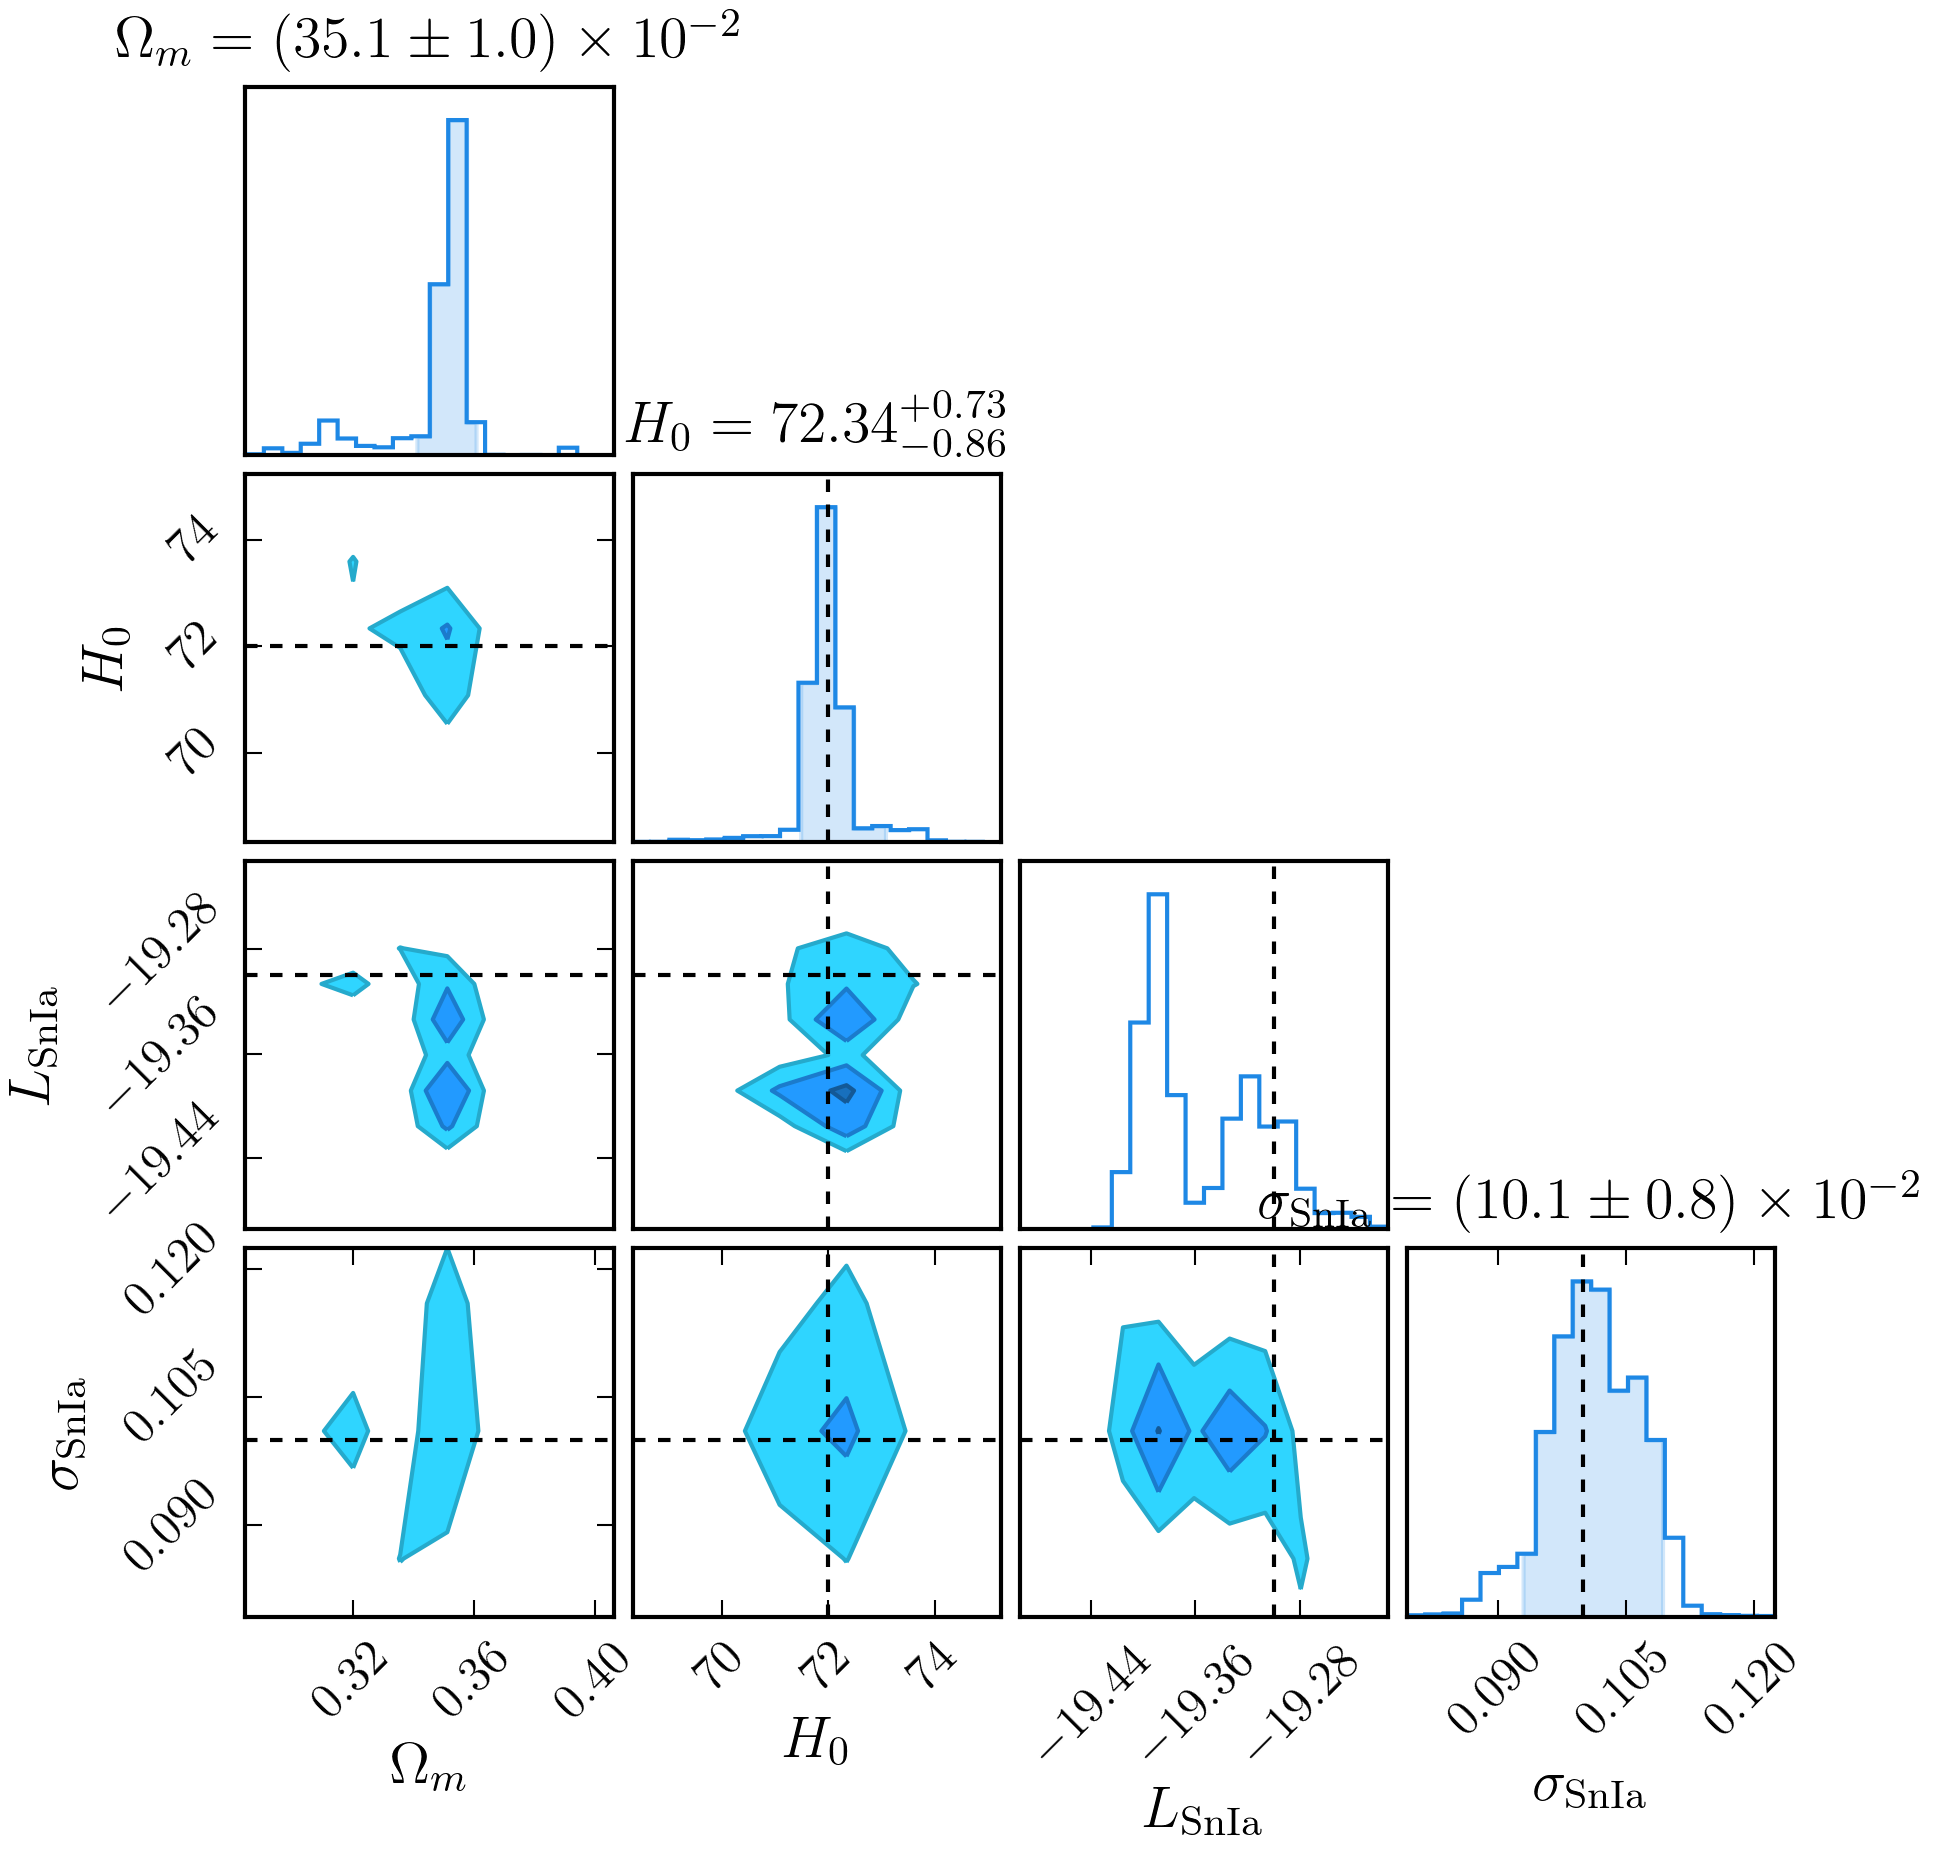
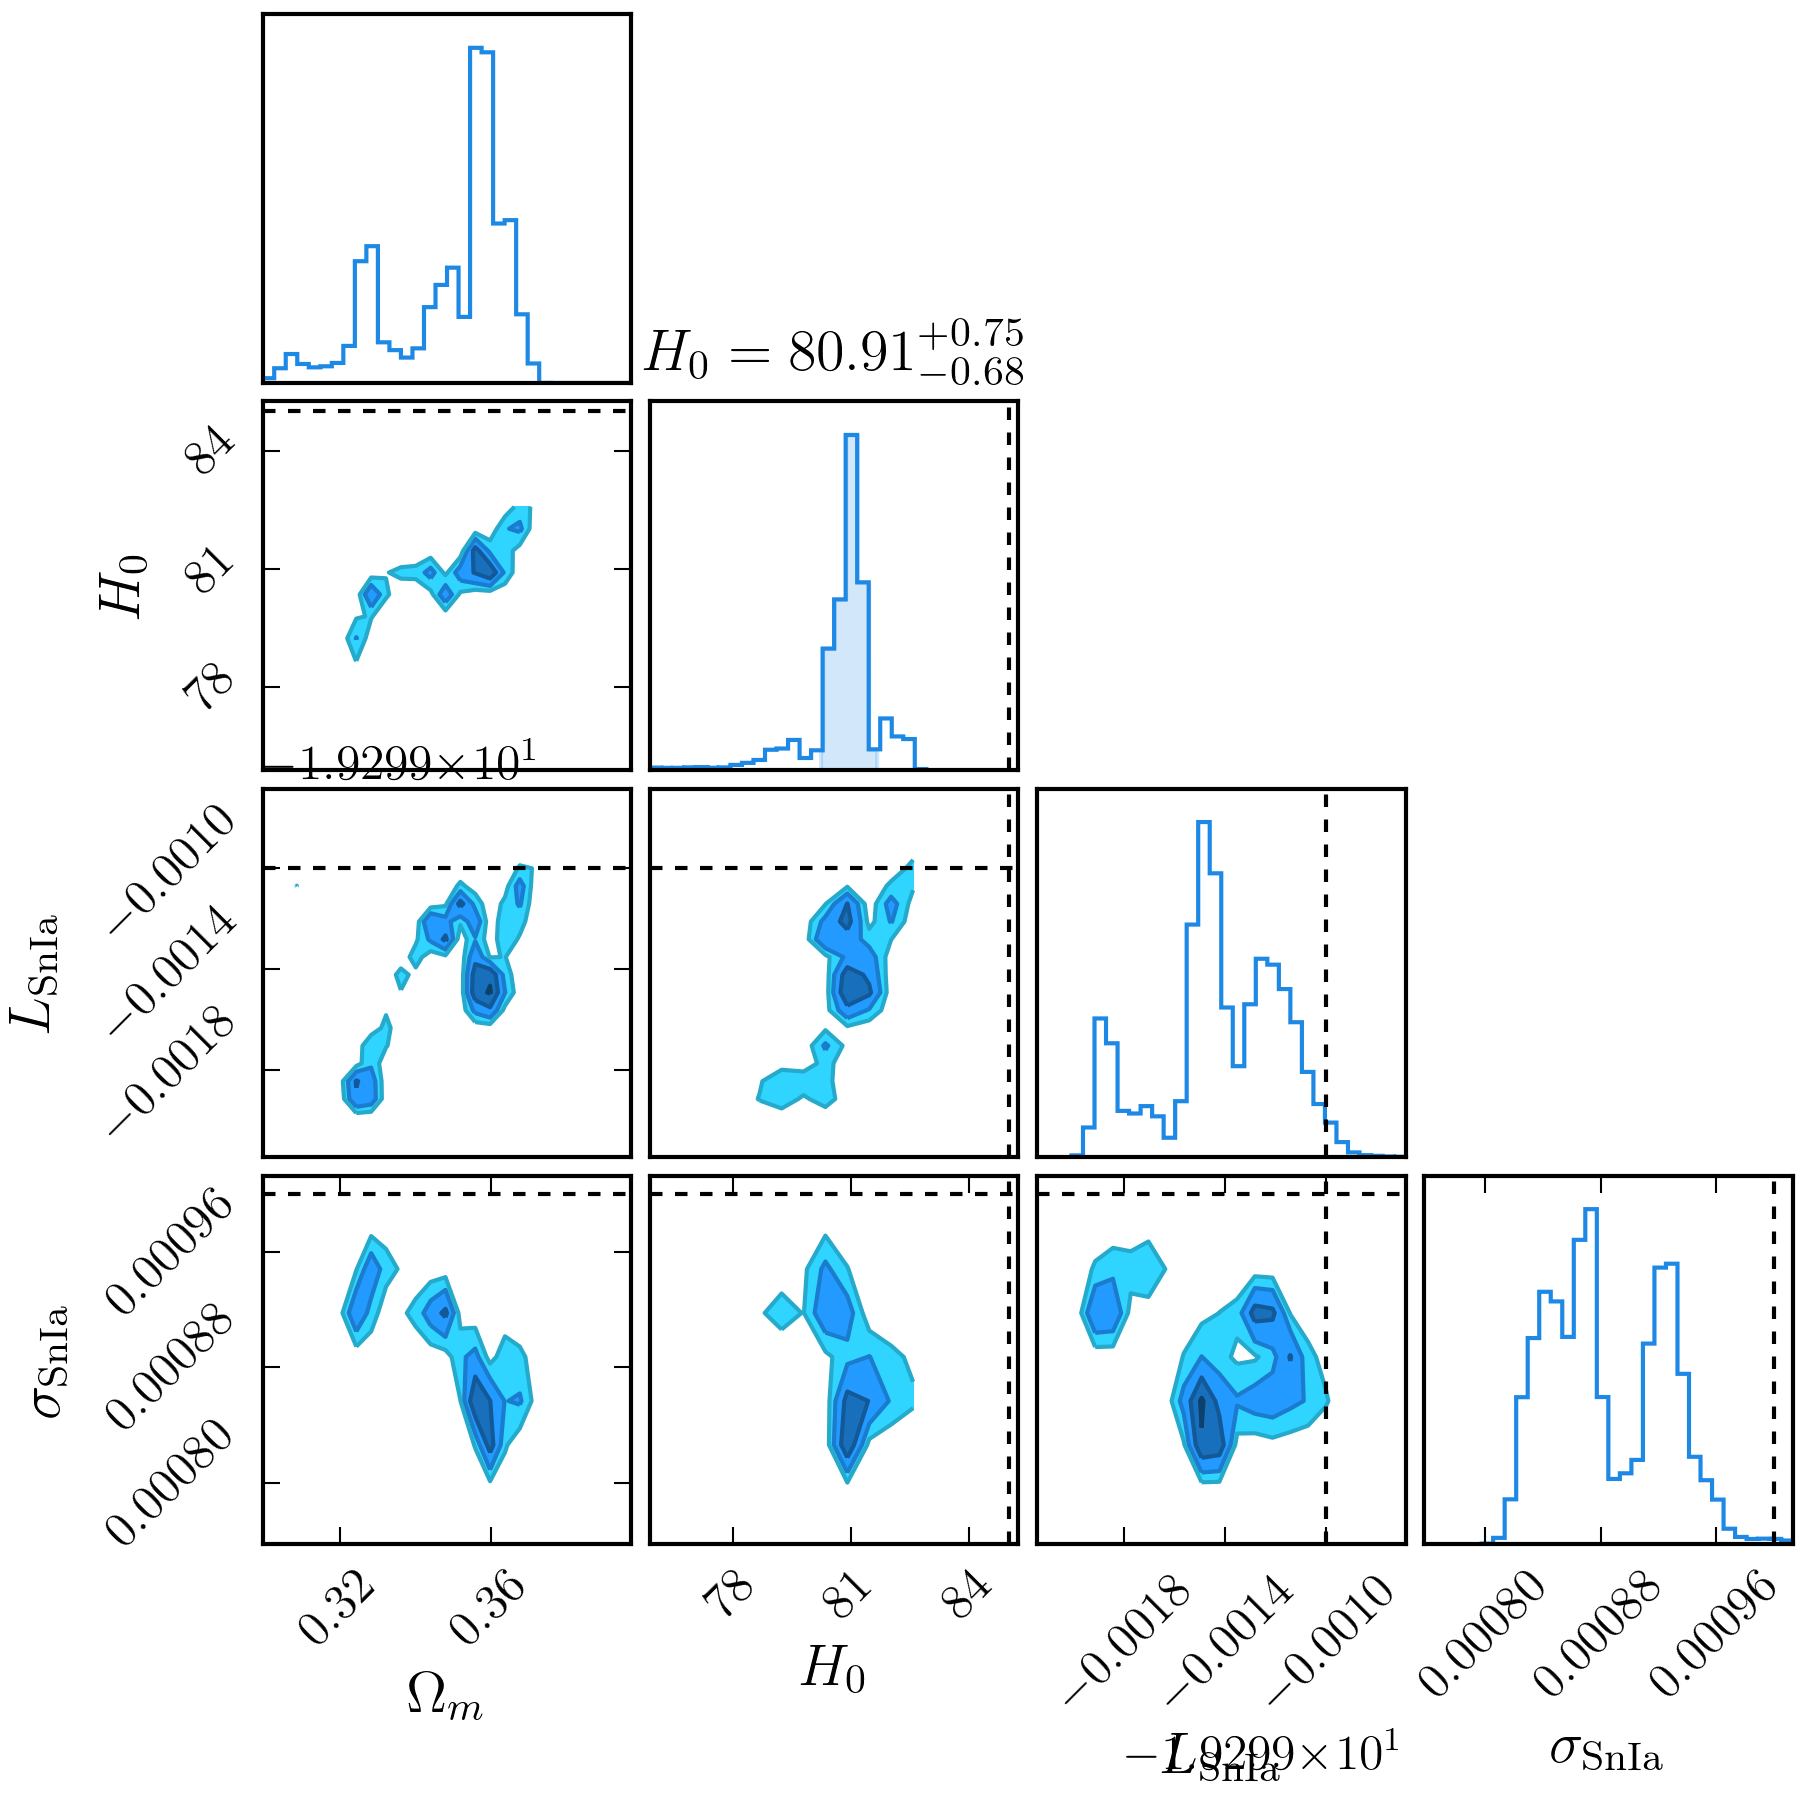
Waiting for convergence. Commiting before branching for emcee3

diff --git a/dessn/framework/model.py b/dessn/framework/model.py
@@ -194,18 +194,29 @@ class Model(object):
         return result, data
 
     def get_log_prior(self, theta):
-        theta_dict = self._get_theta_dict(theta)
+        theta_dict, data = self._get_theta_dict(theta)
         return self._get_log_prior(theta_dict)
 
     def get_log_likelihood(self, theta):
-        theta_dict = self._get_theta_dict(theta)
+        theta_dict, data = self._get_theta_dict(theta)
+        return self._get_log_likelihood(theta_dict, data)
+
+    def _get_log_likelihood(self, theta_dict, data):
         probability = 0
-        for edge in self._ordered_edges:
-            if isinstance(edge, EdgeTransformation):
-                theta_dict.update(self._get_transformation(theta_dict, edge))
-            else:
-                result = self._get_log_likelihood(theta_dict, edge)
-                probability += result
+        for observation in data:
+            t = theta_dict.copy()
+            t.update(observation)
+            result = self._get_edge_likelihood(t, self._ordered_edges[:])
+            probability += result
+            if not np.isfinite(probability):
+                break
+        return probability
+
+    def get_log_posterior(self, theta):
+        theta_dict, data = self._get_theta_dict(theta)
+        probability = self._get_log_prior(theta_dict)
+        if np.isfinite(probability):
+            probability += self._get_log_likelihood(theta_dict, data)
         return probability
 
     def _expand_discrete(self, dictionary):
@@ -251,33 +262,18 @@ class Model(object):
                 if isinstance(edge, EdgeTransformation):
                     theta_dict.update(self._get_transformation(theta_dict, edge))
                 else:
-                    result = self._get_log_likelihood(theta_dict, edge)
+                    result = self._get_log_likelihood_edge(theta_dict, edge)
                     probability += result
             if not np.isfinite(probability):
                 break
         return probability
 
-    def _get_log_posterior(self, theta):
-        theta_dict, data = self._get_theta_dict(theta)
-        probability = self._get_log_prior(theta_dict)
-        if np.isfinite(probability):
-            for observation in data:
-                t = theta_dict.copy()
-                t.update(observation)
-                result = self._get_edge_likelihood(t, self._ordered_edges[:])
-                probability += result
-                if not np.isfinite(probability):
-                    return probability
-        # if np.random.random() < 0.001:
-        #     print("P: ", probability, " THETA ", theta)
-        return probability
-
     def _get_log_posterior_grad(self, theta):
-        grad = scipy.optimize.approx_fprime(theta, self._get_log_posterior, self.epsilon)
+        grad = scipy.optimize.approx_fprime(theta, self.get_log_posterior, self.epsilon)
         return grad
 
     def _get_negative_log_posterior(self, theta):
-        val = self._get_log_posterior(theta)
+        val = self.get_log_posterior(theta)
         return -val
 
     def _get_suggestion(self):
@@ -352,11 +348,13 @@ class Model(object):
         result = edge.get_transformation(dict((key, theta_dict[key]) for key in edge.given))
         return result
 
-    def _get_log_likelihood(self, theta_dict, edge):
+    def _get_log_likelihood_edge(self, theta_dict, edge):
         result = edge.get_log_likelihood(dict((key, theta_dict[key]) for key in edge.given + edge.probability_of))
         if np.isnan(result):
             self.logger.error("Got NaN probability from %s: %s" % (edge, theta_dict))
             raise ValueError("NaN")
+        # else:
+        #     print("RRR: ", edge.__class__, result)
         return result
 
     def get_pgm(self, filename=None):
@@ -501,7 +499,7 @@ class Model(object):
         num_walkers = max(num_walkers, 20)
         if num_temps is None:
             self.logger.info("Using Ensemble Sampler")
-            sampler = emcee.EnsembleSampler(num_walkers, num_dim, self._get_log_posterior, pool=pool, live_dangerously=True)
+            sampler = emcee.EnsembleSampler(num_walkers, num_dim, self.get_log_posterior, pool=pool, live_dangerously=True)
         else:
             self.logger.info("Using PTSampler")
             sampler = emcee.PTSampler(self.num_temps, num_walkers, num_dim, self.get_log_likelihood, self.get_log_prior, pool=pool)

diff --git a/dessn/models/a_pure_snia/model.py b/dessn/models/a_pure_snia/model.py
@@ -66,7 +66,8 @@ if __name__ == "__main__":
     plot_file = os.path.abspath(dir_name + "/output/pure_snia.png")
     walk_file = os.path.abspath(dir_name + "/output/pure_snia_walk.png")
 
-    vals = {"num_days": 30, "omega_m": 0.25, "H0": 75, "snIa_luminosity": -19.3, "snIa_sigma": 0.1}
+    vals = {"num_transient": 20, "omega_m": 0.5, "H0": 85, "snIa_luminosity": -19.3,
+            "snIa_sigma": 0.001}
     simulation = Simulation()
     observations, theta = simulation.get_simulation(**vals)
     model = PureModel(observations)
@@ -76,7 +77,48 @@ if __name__ == "__main__":
         pgm_file = os.path.abspath(dir_name + "/output/pure_snia.png")
         # fig = model.get_pgm(pgm_file)
 
-        model.fit_model(num_steps=2000, num_burn=0, temp_dir=temp_dir, save_interval=60)
+    # print(model._theta_names, model._theta_labels)
+    # t = model._get_suggestion()
+    # t[model._theta_names.index("H0")] = 85
+    # # print("OOO: ", observations["z_o"][0], observations["lcs_o"][0])
+    # for om in np.linspace(0.1, 0.8, 15):
+    #     t[model._theta_names.index("omega_m")] = om
+    #     # print(om, model.get_log_posterior(t))
+    #     print(om, model.get_log_likelihood(t))
+
+    #
+    # z = observations["z_o"][0]
+    # import sncosmo
+    # sncosmo_model = sncosmo.Model(source="salt2")
+    # sncosmo_model.set(z=z)
+    # print(observations["lcs_o"][0].meta)
+    # res, fitted_model = sncosmo.fit_lc(observations["lcs_o"][0], sncosmo_model,
+    #                                    ['t0', 'x0', 'x1', 'c'])
+    # sncosmo.plot_lc(observations["lcs_o"][0], model=fitted_model, errors=res.errors, fname=dir_name+"/output/death.png")
+
+    # edge = ToLightCurve()
+    # print(theta)
+    # oms = np.linspace(0.1, 0.7, 39)
+    # vals = []
+    # for om in oms:
+    #     l = -np.inf
+    #
+    #     for lc, z in zip(observations["lcs_o"], observations["z_o"]):
+    #         data = lc.meta.copy()
+    #         data["redshift"] = z
+    #         data["H0"] = 85
+    #         data["luminosity"] = -19.3
+    #         data["olc"] = lc
+    #         data["omega_m"] = om
+    #         l = np.logaddexp(l, edge.get_log_likelihood(data))
+    #     vals.append(l)
+    # vals = np.array(vals)
+    # vals -= vals.max()
+    # for om,v in zip(oms, vals):
+    #     print(om, v)
+
+
+    model.fit_model(num_steps=10000, num_burn=0, temp_dir=temp_dir, save_interval=60)
 
     if not only_data:
         chain_consumer = model.get_consumer()

diff --git a/dessn/models/a_pure_snia/simulation.py b/dessn/models/a_pure_snia/simulation.py
@@ -9,19 +9,24 @@ class Simulation(object):
     def __init__(self):
         self.logger = logging.getLogger(__name__)
 
-    def get_simulation(self, omega_m=0.3, H0=70, snIa_luminosity=-19.3, snIa_sigma=0.1, num_days=100, area=1, zmax=0.8, mean_num_obs=30):
+    def get_simulation(self, omega_m=0.3, H0=70, snIa_luminosity=-19.3, snIa_sigma=0.1,
+                       num_transient=10, zmin=0.1, zmax=0.8, mean_num_obs=30):
         np.random.seed(1)
 
         cosmology = FlatwCDM(Om0=omega_m, w0=-1, H0=H0)
 
         # Get redshift distribution of supernova
         tmin = 56700
-        tmax = tmin + num_days
-        redshifts = list(sncosmo.zdist(0., zmax, time=num_days, area=area))
+        tmax = tmin + 500
+        # redshifts = list(sncosmo.zdist(0., zmax, time=num_days, area=area))
+        redshifts = np.random.uniform(zmin, zmax, size=(num_transient,)).tolist()
 
-        self.logger.info('Getting data for %d days of transients, with %d supernova' % (num_days, len(redshifts)))
+        self.logger.info('Getting data for %d supernova' % len(redshifts))
         num_obs = np.ceil(np.random.normal(loc=mean_num_obs, scale=2.0, size=len(redshifts)))
-        observations = [self.get_supernova(z, n, tmin, tmax, cosmology, x0_mean=snIa_luminosity, x0_sigma=snIa_sigma) for z, n, in zip(redshifts, num_obs)]
+
+        observations = [self.get_supernova(z, n, tmin, tmax, cosmology,
+                                           x0_mean=snIa_luminosity, x0_sigma=snIa_sigma)
+                        for z, n, in zip(redshifts, num_obs)]
 
         theta = {
             r"$\Omega_m$": omega_m,
@@ -39,7 +44,7 @@ class Simulation(object):
 
     def get_supernova(self, z, num_obs, tmin, tmax, cosmology, x0_mean=-19.3, x0_sigma=0.1):
         t0 = np.random.uniform(tmin, tmax)
-        ts = np.linspace(t0 - 40, t0 + 60, num_obs)
+        ts = np.linspace(t0 - 60, t0 + 60, num_obs)
 
         times = np.array([[t, t + 0.1, t + 0.2] for t in ts]).flatten()
         bands = [b for t in ts for b in ['desg', 'desr', 'desi']]

diff --git a/dessn/models/a_pure_snia/underlying.py b/dessn/models/a_pure_snia/underlying.py
@@ -5,14 +5,12 @@ import numpy as np
 class OmegaM(ParameterUnderlying):
     def __init__(self):
         super(OmegaM, self).__init__("omega_m", r"$\Omega_m$", group="Cosmology")
-        self.sigma = 0.0062 * 10
-        self.prefactor = np.log(np.sqrt(2 * np.pi) * self.sigma) # Planck 2016
 
     def get_log_prior(self, data):
         om = data["omega_m"]
         if om < 0.05 or om > 0.7:
             return -np.inf
-        return -(om - 0.3089) * (om - 0.3089) / (2 * self.sigma * self.sigma) - self.prefactor
+        return 1
 
     def get_suggestion(self, data):
         return 0.30
@@ -24,11 +22,12 @@ class OmegaM(ParameterUnderlying):
 class Hubble(ParameterUnderlying):
     def __init__(self):
         super(Hubble, self).__init__("H0", "$H_0$", group="Cosmology")
-        self.sigma = 0.46 * 10
-        self.prefactor = np.log(np.sqrt(2 * np.pi) * self.sigma)
 
     def get_log_prior(self, data):
-        return -(data["H0"] - 67.74) * (data["H0"] - 67.74) / (2 * self.sigma * self.sigma) - self.prefactor
+        h0 = data["H0"]
+        if h0 < 50 or h0 > 100:
+            return -np.inf
+        return 1
 
     def get_suggestion(self, data):
         return 72
@@ -46,7 +45,7 @@ class SupernovaIaDist1(ParameterUnderlying):
         return -19.3
 
     def get_suggestion_sigma(self, data):
-        return 0.1
+        return 0.001
 
 
 class SupernovaIaDist2(ParameterUnderlying):
@@ -60,8 +59,8 @@ class SupernovaIaDist2(ParameterUnderlying):
         return 1
 
     def get_suggestion(self, data):
-        return 0.1  # Deliberately wrong to test recovery
+        return 0.001  # Deliberately wrong to test recovery
 
     def get_suggestion_sigma(self, data):
-        return 0.05
+        return 0.0005
 

diff --git a/dessn/models/a_pure_snia/edges.py b/dessn/models/a_pure_snia/edges.py
@@ -6,7 +6,7 @@ import sncosmo
 
 class ToLightCurve(Edge):
     def __init__(self):
-        super(ToLightCurve, self).__init__("ofit", ["redshift", "luminosity", "x1", "t0", "c", "omega_m", "H0"])
+        super(ToLightCurve, self).__init__("olc", ["redshift", "luminosity", "x1", "t0", "c", "omega_m", "H0"])
         self.model = sncosmo.Model(source="salt2")
         self.current_h0 = None
         self.current_omega_m = None
@@ -18,7 +18,7 @@ class ToLightCurve(Edge):
         H0 = data["H0"]
         om = data["omega_m"]
         if self.cosmology is None or (self.current_h0 != H0 or self.current_omega_m != om):
-            self.cosmology = FlatwCDM(H0, om)
+            self.cosmology = FlatwCDM(H0=H0, Om0=om, w0=-1)
             self.current_h0 = H0
             self.current_omega_m = om
         self.model.set(z=data["redshift"])

diff --git a/dessn/models/a_pure_snia/latent.py b/dessn/models/a_pure_snia/latent.py
@@ -23,7 +23,7 @@ class Luminosity(ParameterLatent):
         return -19.3
 
     def get_suggestion_sigma(self, data):
-        return 0.2
+        return 0.001
 
     def get_suggestion_requirements(self):
         return []

diff --git a/dessn/entry/doJob.py b/dessn/entry/doJob.py
@@ -5,7 +5,7 @@ args = sys.argv
 
 assert len(args) >= 2, "You need to supply the filename to run"
 filename = args[1]
-cores = 60
+cores = 1
 if len(args) > 2:
     cores = int(args[2])
 if len(args) > 3:
